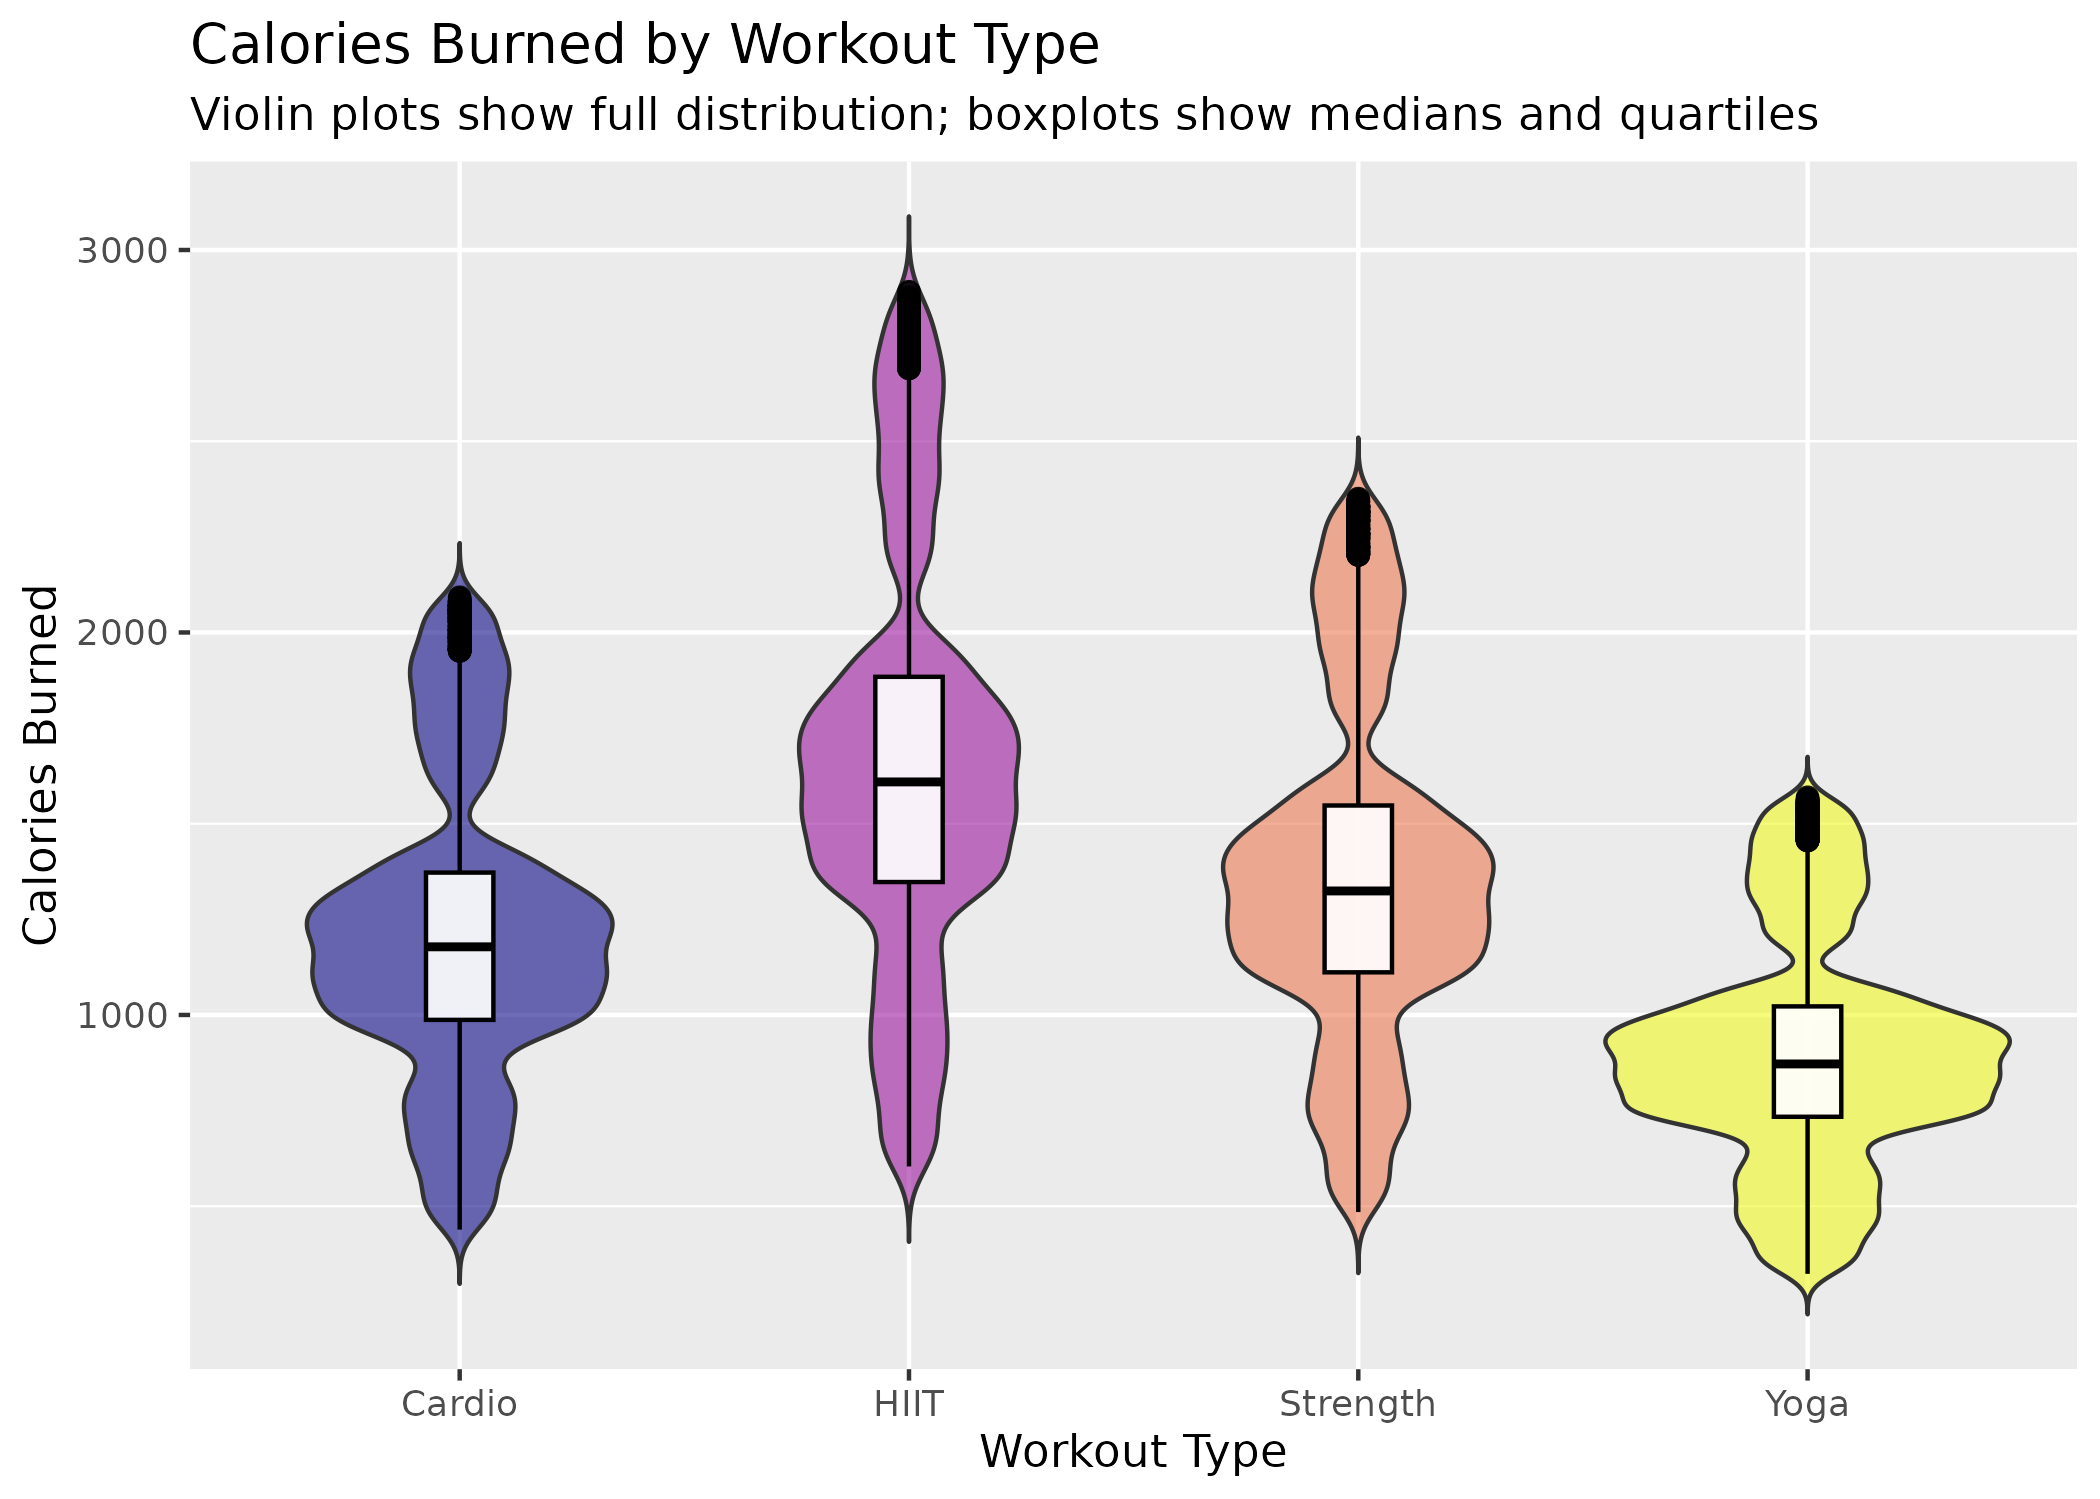
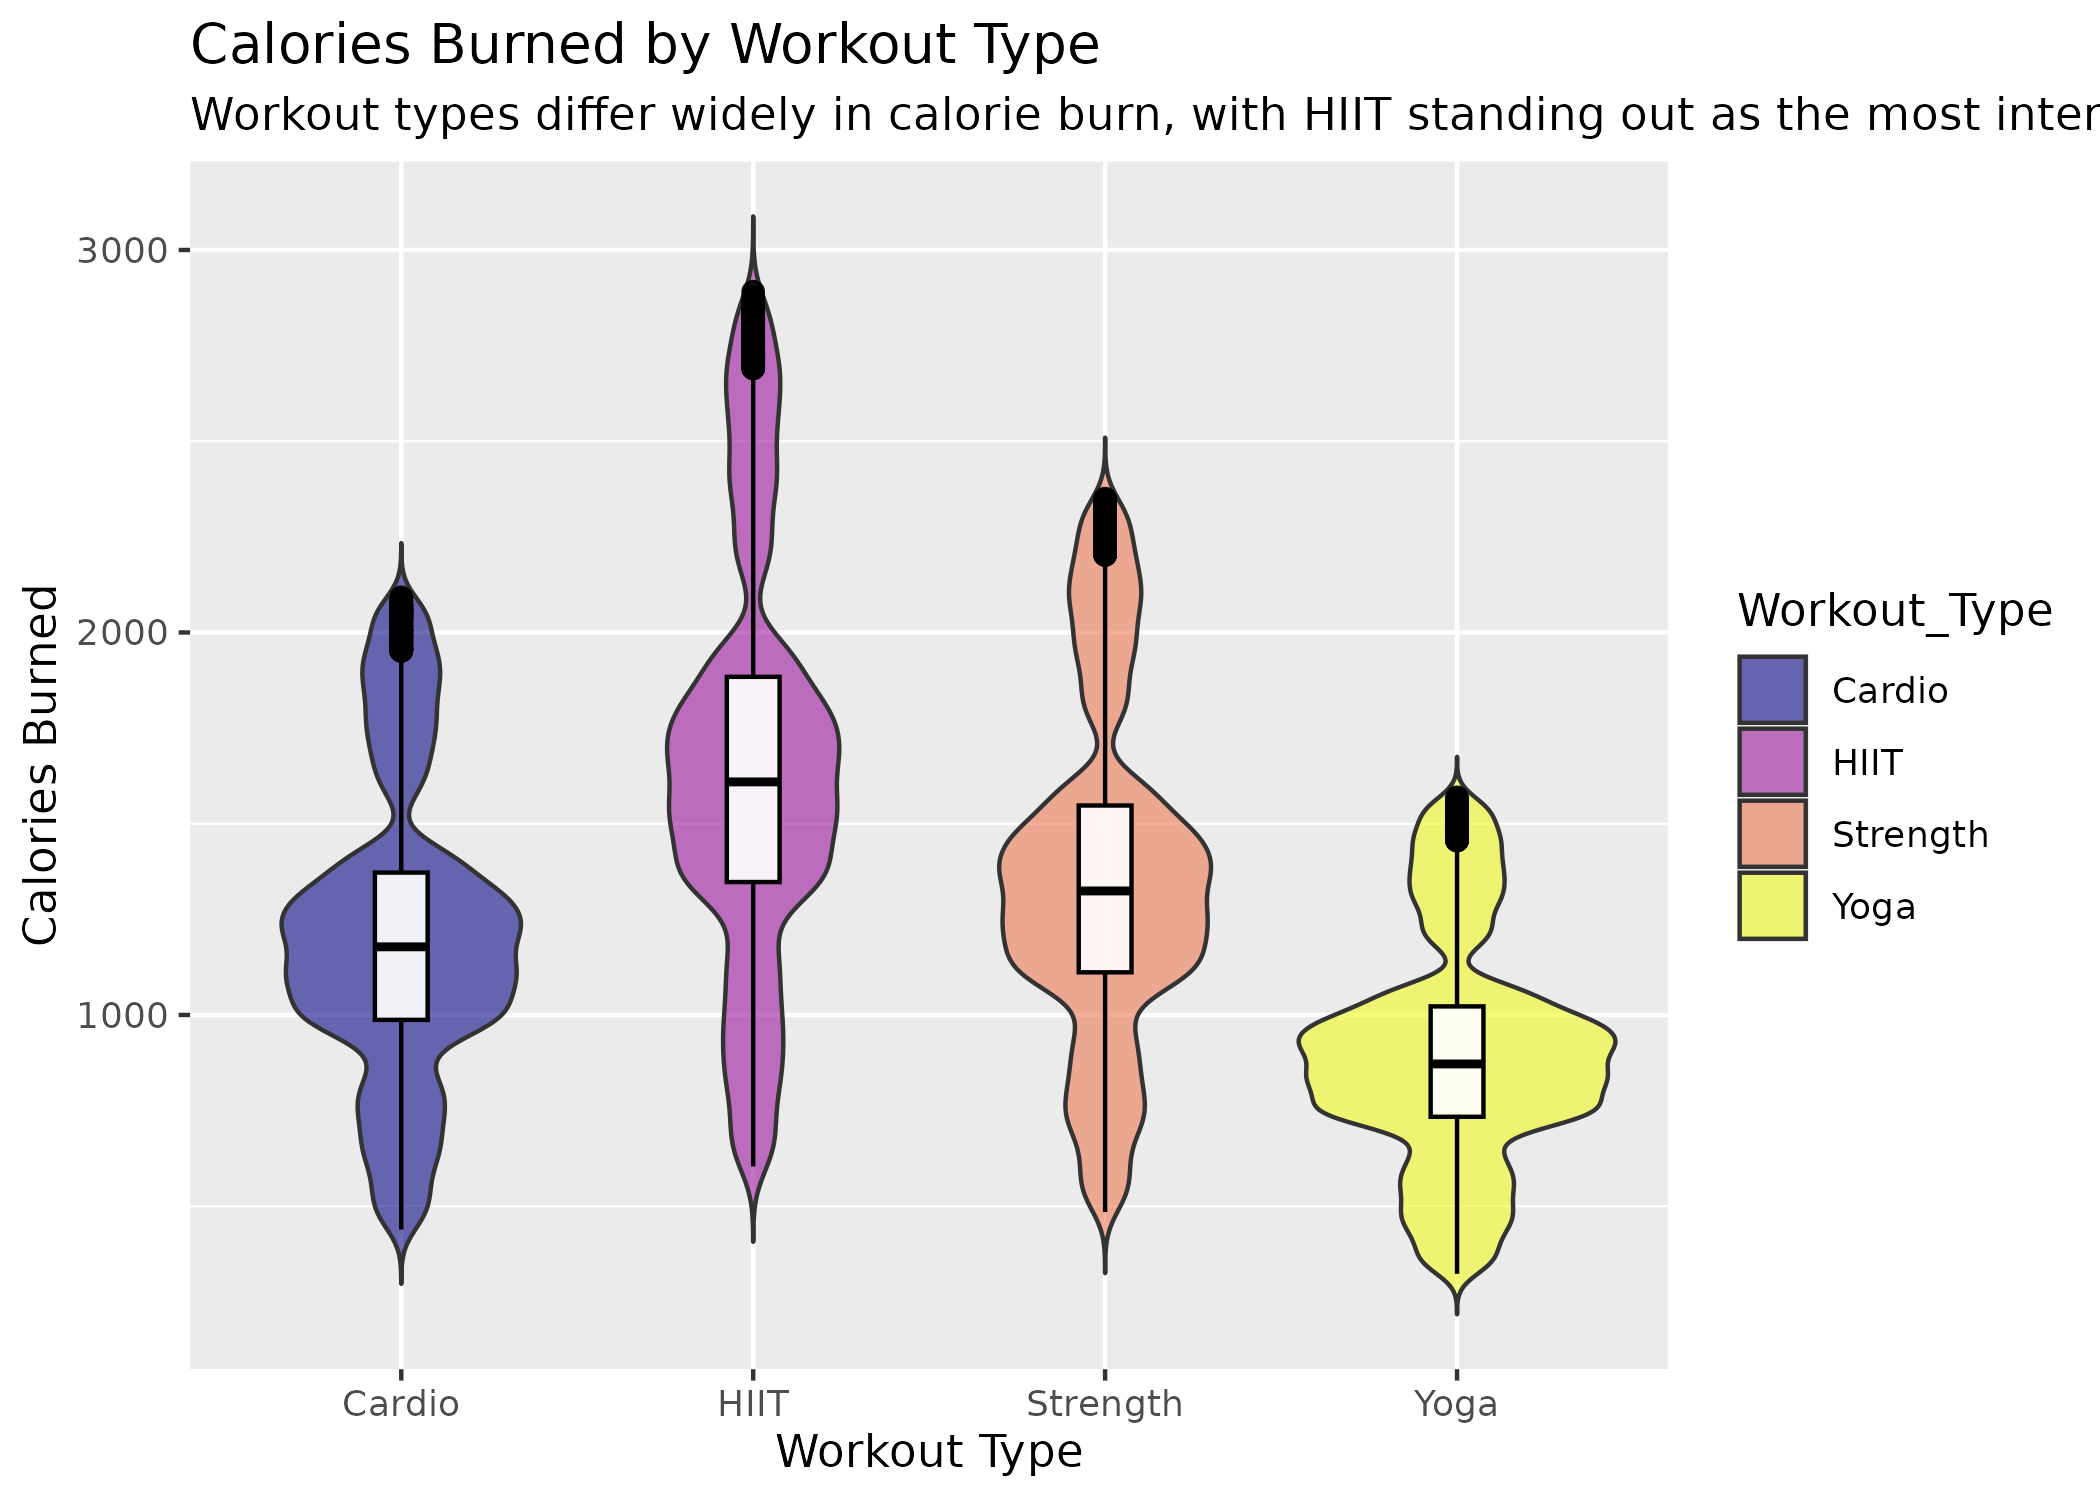
Plot 1 subtitle

diff --git a/proposal/proposal.md b/proposal/proposal.md
@@ -216,11 +216,11 @@ ggplot(Final_data, aes(x = Workout_Type, y = Calories_Burned, fill = Workout_Typ
   scale_fill_viridis_d(option = "plasma") +
   labs(
     title = "Calories Burned by Workout Type",
-    subtitle = "Violin plots show full distribution; boxplots show medians and quartiles",
+    subtitle = "Workout types differ widely in calorie burn, with HIIT standing out as the most intense.",
     x = "Workout Type",
     y = "Calories Burned"
   ) +
-  theme(legend.position = "none")
+  theme(legend.position = "right")
 ```
 
 <img src="proposal_files/figure-gfm/violin-and-box-1.png" alt=" Violin and boxplots comparing calories burned for Cardio, HIIT, Strength, and Yoga. The y axis shows calories burned and the x axis shows workout type. This chart highlights differences in intensity, with HIIT showing the highest values with a longer violin plot showing variation across values and the Yoga being the lowest intensity workout with a narrow violin plot showing less variation across data."  />
@@ -277,4 +277,31 @@ ggsave("/cloud/project/maxBPM.png")
     ## Saving 7 x 5 in image
     ## `geom_smooth()` using formula = 'y ~ x'
 
-Q. Plot3
+Q. Creating BMI group
+
+``` r
+Final_data <- Final_data %>%
+  mutate(BMI_group = case_when(
+      BMI < 18.5                     ~ "A.Underweight (<18.5)",
+      BMI >= 18.5 & BMI <= 24.9      ~ "B.Normal (18.5–24.9)",
+      BMI >= 25   & BMI <= 29.9      ~ "C.Overweight (25.0–29.9)",
+      BMI >= 30                      ~ "D.Obese (≥30.0)",
+  )
+  ) %>%
+  filter(!is.na(BMI_group))
+```
+
+Plot3
+
+``` r
+ggplot(Final_data, aes(x = Calories_Burned , y = BMI_group, fill = BMI_group)) +
+  geom_boxplot() +
+  facet_wrap(~ Gender) +
+  labs(
+    title = "Calories Burned vs. BMI",
+    y = "BMI Group",
+    x = "Calories Burned"
+  )
+```
+
+![](proposal_files/figure-gfm/-%20plot3-1.png)<!-- -->
